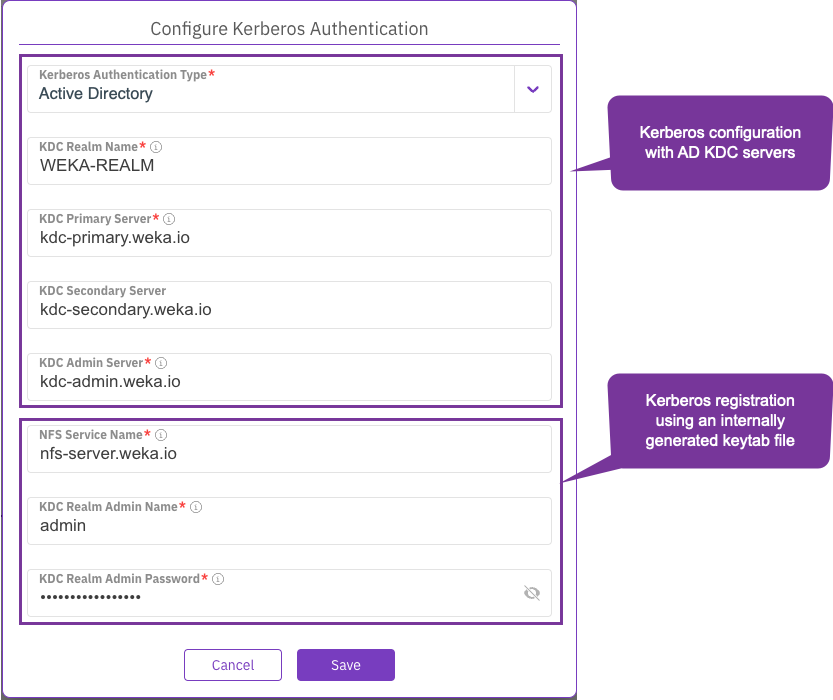
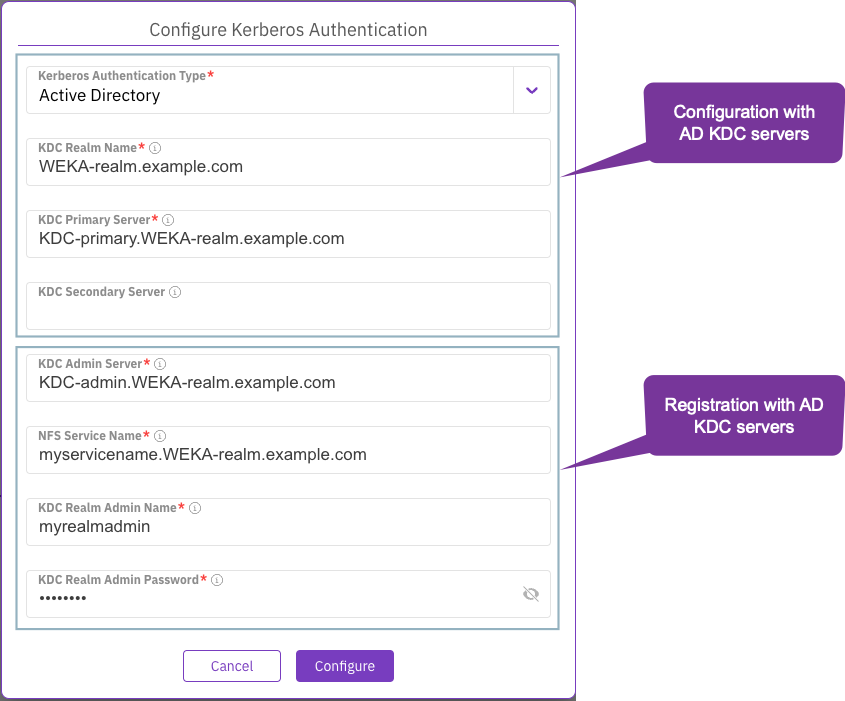
GITBOOK-61: Kerberos final updates with Orit

diff --git a/additional-protocols/nfs-support/nfs-support.md b/additional-protocols/nfs-support/nfs-support.md
@@ -41,12 +41,12 @@ The possible Kerberos authentication types are available only after configuring 
        * KRB5i: Kerberos authentication with data integrity.
        * KRB5p: Kerberos authentication with data integrity and privacy.
 
+       The Kerberos authentication types are visible only if Kerberos is configured.\
        Example: KRB5  KRB5i  KRB5p.\
        The default values depend on Kerberos configuration:
 
        * If not configured: NONE SYS
        * If configured: KRB5
-   * **Mount Port**: Specify the port on which the NFS cluster listens for mount requests from NFS clients.
 5. Select **Save** to apply the settings.
 
 <figure><img src="../../.gitbook/assets/wmng_configure_nfs_global_settings.png" alt="" width="433"><figcaption><p>Configure global NFS settings dialog</p></figcaption></figure>
@@ -136,11 +136,13 @@ Integrating the NFS and Kerberos service is critical to setting up a secure netw
 **Before you begin**
 
 * Ensure a configuration filesystem is set. See [#configure-nfs-global-settings](nfs-support.md#configure-nfs-global-settings "mention").
-* Ensure the NFS cluster is configured and running. see [#create-interface-groups](nfs-support.md#create-interface-groups "mention").
+* Ensure the NFS cluster is configured and running. See [#create-interface-groups](nfs-support.md#create-interface-groups "mention").
 * For Active Directory (AD) integration, obtain the required information from the AD administrator. (WEKA handles the generation of the keytab file.)
-* For MIT integration, ensure the following:
-  * Obtain the required information from the MIT Key Distribution Center (KDC) and OpenLDAP administrators.&#x20;
-  * A pre-generated keytab file stored in an accessible location is required.&#x20;
+* For MIT integration, obtain the required information from the MIT KDC and OpenLDAP administrators, and a pre-generated keytab file stored in an accessible location is required.
+
+{% hint style="info" %}
+In all KDC and LDAP parameters, use the FQDN format. The hostname part of the FQDN is restricted to a maximum of 20 characters.
+{% endhint %}
 
 **Procedure**
 
@@ -164,7 +166,7 @@ Configuring the NFS-Kerberos service integration automatically restarts the NFS 
    * **KDC Secondary Server**: Identifies the server hosting the secondary Key Distribution Center service.
    * **KDC Admin Server**: Identifies the server hosting the administrative Key Distribution Center service.
 3. Set the following parameters to register the Kerberos service:
-   * **NFS Service Name**: Fully Qualified Domain Name (FQDN) for the NFS Service. This refers to the complete domain name for a specific NFS server. The hostname part of the FQDN is restricted to a maximum of 20 characters..
+   * **NFS Service Name**: This refers to the complete domain name for a specific NFS server.
    * **KDC Realm Admin Name**: The username of an administrator who has access to the LDAP directory. This user manages the KDC within a realm.
    * **KDC Realm Admin Password**: The password of the administrative user who manages the KDC within a realm.
 4. Select **Save** to apply the changes.
@@ -180,7 +182,7 @@ Configuring the NFS-Kerberos service integration automatically restarts the NFS 
    3. **KDC Secondary Server**: Identifies the server hosting the secondary Key Distribution Center service.
    4. **KDC Admin Server**: Identifies the server hosting the administrative Key Distribution Center service.
 3. Set the following parameters to register the Kerberos with LDAP service and uploaded keytab file:
-   * **NFS Service Name**: Fully Qualified Domain Name (FQDN) for the NFS Service. This refers to the complete domain name for a specific NFS server. The hostname part of the FQDN is restricted to a maximum of 20 characters.
+   * **NFS Service Name**: This refers to the complete domain name for a specific NFS server.
    * **Upload keytab file**: Use the **Browse** option to upload the pre-generated keytab file. This file contains the keys for the NFS service’s unique identity, known as a principal, in Kerberos.
    * **LDAP Server**: Specifies the server hosting the Lightweight Directory Access Protocol service.
    * **LDAP Domain**: Defines the domain that the Lightweight Directory Access Protocol service will access.
@@ -194,19 +196,9 @@ Configuring the NFS-Kerberos service integration automatically restarts the NFS 
 {% endtab %}
 {% endtabs %}
 
-6. In the Configure NFS Global Settings, select **Update**, and set the authentication types (levels) you want to enable. See [#configure-the-nfs-global-settings](nfs-support.md#configure-the-nfs-global-settings "mention").
-
 {% hint style="info" %}
-A KRB types can only be disabled only when no existing NFS permission is required to use this authentication type.
+After completing the kerberos integration settings, the enabled authentication type is **KRB5**. If you want to modify the enabled authentication types, in the Configure NFS Global Settings, select **Update**, and set the authentication types. See [#configure-the-nfs-global-settings](nfs-support.md#configure-the-nfs-global-settings "mention").
 {% endhint %}
-
-Select **Save** to apply the changes.
-
-<figure><img src="../../.gitbook/assets/wmng_set_kerberos_auth_types.png" alt="" width="375"><figcaption><p>Select the Kerberos authentication types to enable</p></figcaption></figure>
-
-The following screen shows NFS cluster integration with Kerberos MIT:
-
-<figure><img src="../../.gitbook/assets/wmng_kerberos_is_set.png" alt=""><figcaption><p>NFS cluster integration with Kerberos MIT</p></figcaption></figure>
 
 ### **Reset the** Kerberos configuration <a href="#create-interface-groups" id="create-interface-groups"></a>
 

diff --git a/additional-protocols/nfs-support/nfs-support-1.md b/additional-protocols/nfs-support/nfs-support-1.md
@@ -205,6 +205,10 @@ To establish Kerberos authentication, first set the Kerberos service. Following 
   * Obtain the required information from the MIT Key Distribution Center (KDC) and OpenLDAP administrators.
   * A pre-generated keytab file in base64[^1] format stored in an accessible location is required.
 
+{% hint style="info" %}
+In all KDC and LDAP parameters, use the FQDN format. The hostname part of the FQDN is restricted to a maximum of 20 characters.
+{% endhint %}
+
 ### Set the Kerberos service
 
 **Command:** `weka nfs kerberos service setup`
@@ -264,7 +268,7 @@ weka nfs kerberos registration setup-ad myservicename.test.example.com myrealmad
 
 **Parameters**
 
-<table><thead><tr><th width="231">Name</th><th width="407">Value</th><th>Default</th></tr></thead><tbody><tr><td><code>nfs-service-name</code>*</td><td>Fully Qualified Domain Name (FQDN) for the NFS Service. This refers to the complete domain name for a specific NFS server. The hostname part of the FQDN is restricted to a maximum of 20 characters.</td><td></td></tr><tr><td><code>realm-admin-name</code>*</td><td>The username of an administrator who has access to the LDAP directory. This user manages the KDC within a realm.</td><td></td></tr><tr><td><code>realm-admin-passwd</code></td><td>This parameter is for the password of the administrative user who manages the KDC within a realm.<br>It’s not stored in the configuration for security reasons. If it’s not provided during setup, the system asks for it. The entered password isn’t shown on the screen to protect privacy and security.</td><td></td></tr><tr><td><code>force</code></td><td>When used, it forces the action to proceed without further confirmation. Typically used when the service is configured or registered.</td><td>Not used</td></tr><tr><td><code>restart</code></td><td>When used, the command restarts the NFS-W containers after the changes are applied.</td><td>Not used</td></tr></tbody></table>
+<table><thead><tr><th width="231">Name</th><th width="407">Value</th><th>Default</th></tr></thead><tbody><tr><td><code>nfs-service-name</code>*</td><td>This refers to the complete domain name for a specific NFS server.</td><td></td></tr><tr><td><code>realm-admin-name</code>*</td><td>The username of an administrator who has access to the LDAP directory. This user manages the KDC within a realm.</td><td></td></tr><tr><td><code>realm-admin-passwd</code></td><td>This parameter is for the password of the administrative user who manages the KDC within a realm.<br>It’s not stored in the configuration for security reasons. If it’s not provided during setup, the system asks for it. The entered password isn’t shown on the screen to protect privacy and security.</td><td></td></tr><tr><td><code>force</code></td><td>When used, it forces the action to proceed without further confirmation. Typically used when the service is configured or registered.</td><td>Not used</td></tr><tr><td><code>restart</code></td><td>When used, the command restarts the NFS-W containers after the changes are applied.</td><td>Not used</td></tr></tbody></table>
 
 #### Set up Kerberos to use AD LDAP
 
@@ -411,71 +415,64 @@ Select the relevant tab to learn what to do for each scenario:
 
 {% tabs %}
 {% tab title="KDC" %}
-Use this procedure if one of the following is changed, or you want to add a secondary KDC server:
+Use this procedure if you want to add or remove a secondary KDC server:
 
 ```
-kdc-realm-name
-kdc-primary-server
-kdc-admin-server
 kdc-secondary-server
 ```
 
 **Procedure**
 
-Run the following:
-
-1. `weka nfs kerberos reset --no-restart --force`
-2. `weka nfs kerberos service setup <options>`
-3. `weka nfs kerberos registration setup <options> --restart`
+1. Run the command: `weka nfs kerberos reset --no-restart --force`
+2. Run the command: `weka nfs kerberos service setup <options>`
+3. Run one of the following commands:
+   * **For AD implementation:** `weka nfs kerberos registration setup-ad <options> --restart`
+   * **For MIT implementation:** `weka nfs kerberos registration setup-mit <options> --restart`
 {% endtab %}
 
 {% tab title="AD" %}
 Use this procedure if one of the following is changed:
 
 ```
-nfs-service-name
 realm-admin-name
 realm-admin-passwd
 ```
 
 **Procedure**
 
-Run the following:&#x20;
-
-`weka nfs kerberos registration setup --restart --force`
+Run the command: \
+`weka nfs kerberos registration setup-ad --restart --force`
 {% endtab %}
 
 {% tab title="MIT" %}
 Use this procedure if one of the following is changed:
 
 ```
-nfs-service-name
 keytab-file
 ```
 
 **Procedure**
 
-Run the following:&#x20;
-
-`weka nfs kerberos registration setup <options> --restart --force`
+Run the command:\
+`weka nfs kerberos registration setup-mit <options> --restart --force`
 {% endtab %}
 
 {% tab title="OpenLDAP" %}
 Use this procedure if one of the following is changed:
 
 ```
-server-name
-ldap-domain
 reader-user-name
 reader-user-password
 ```
 
 **Procedure**
 
-Run the following:&#x20;
-
-* `weka nfs ldap reset --no-restart --force`
-* `weka nfs ldap <setup-openldap> <options/params>`
+* For AD implementation, run the following:
+  1. `weka nfs ldap reset --no-restart --force`
+  2. `weka nfs ldap <setup-ldap> <options/params>`
+* For MIT implementation, run the following:
+  1. `weka nfs ldap reset --no-restart --force`
+  2. `weka nfs ldap <setup-openldap> <options/params>`
 {% endtab %}
 {% endtabs %}
 
